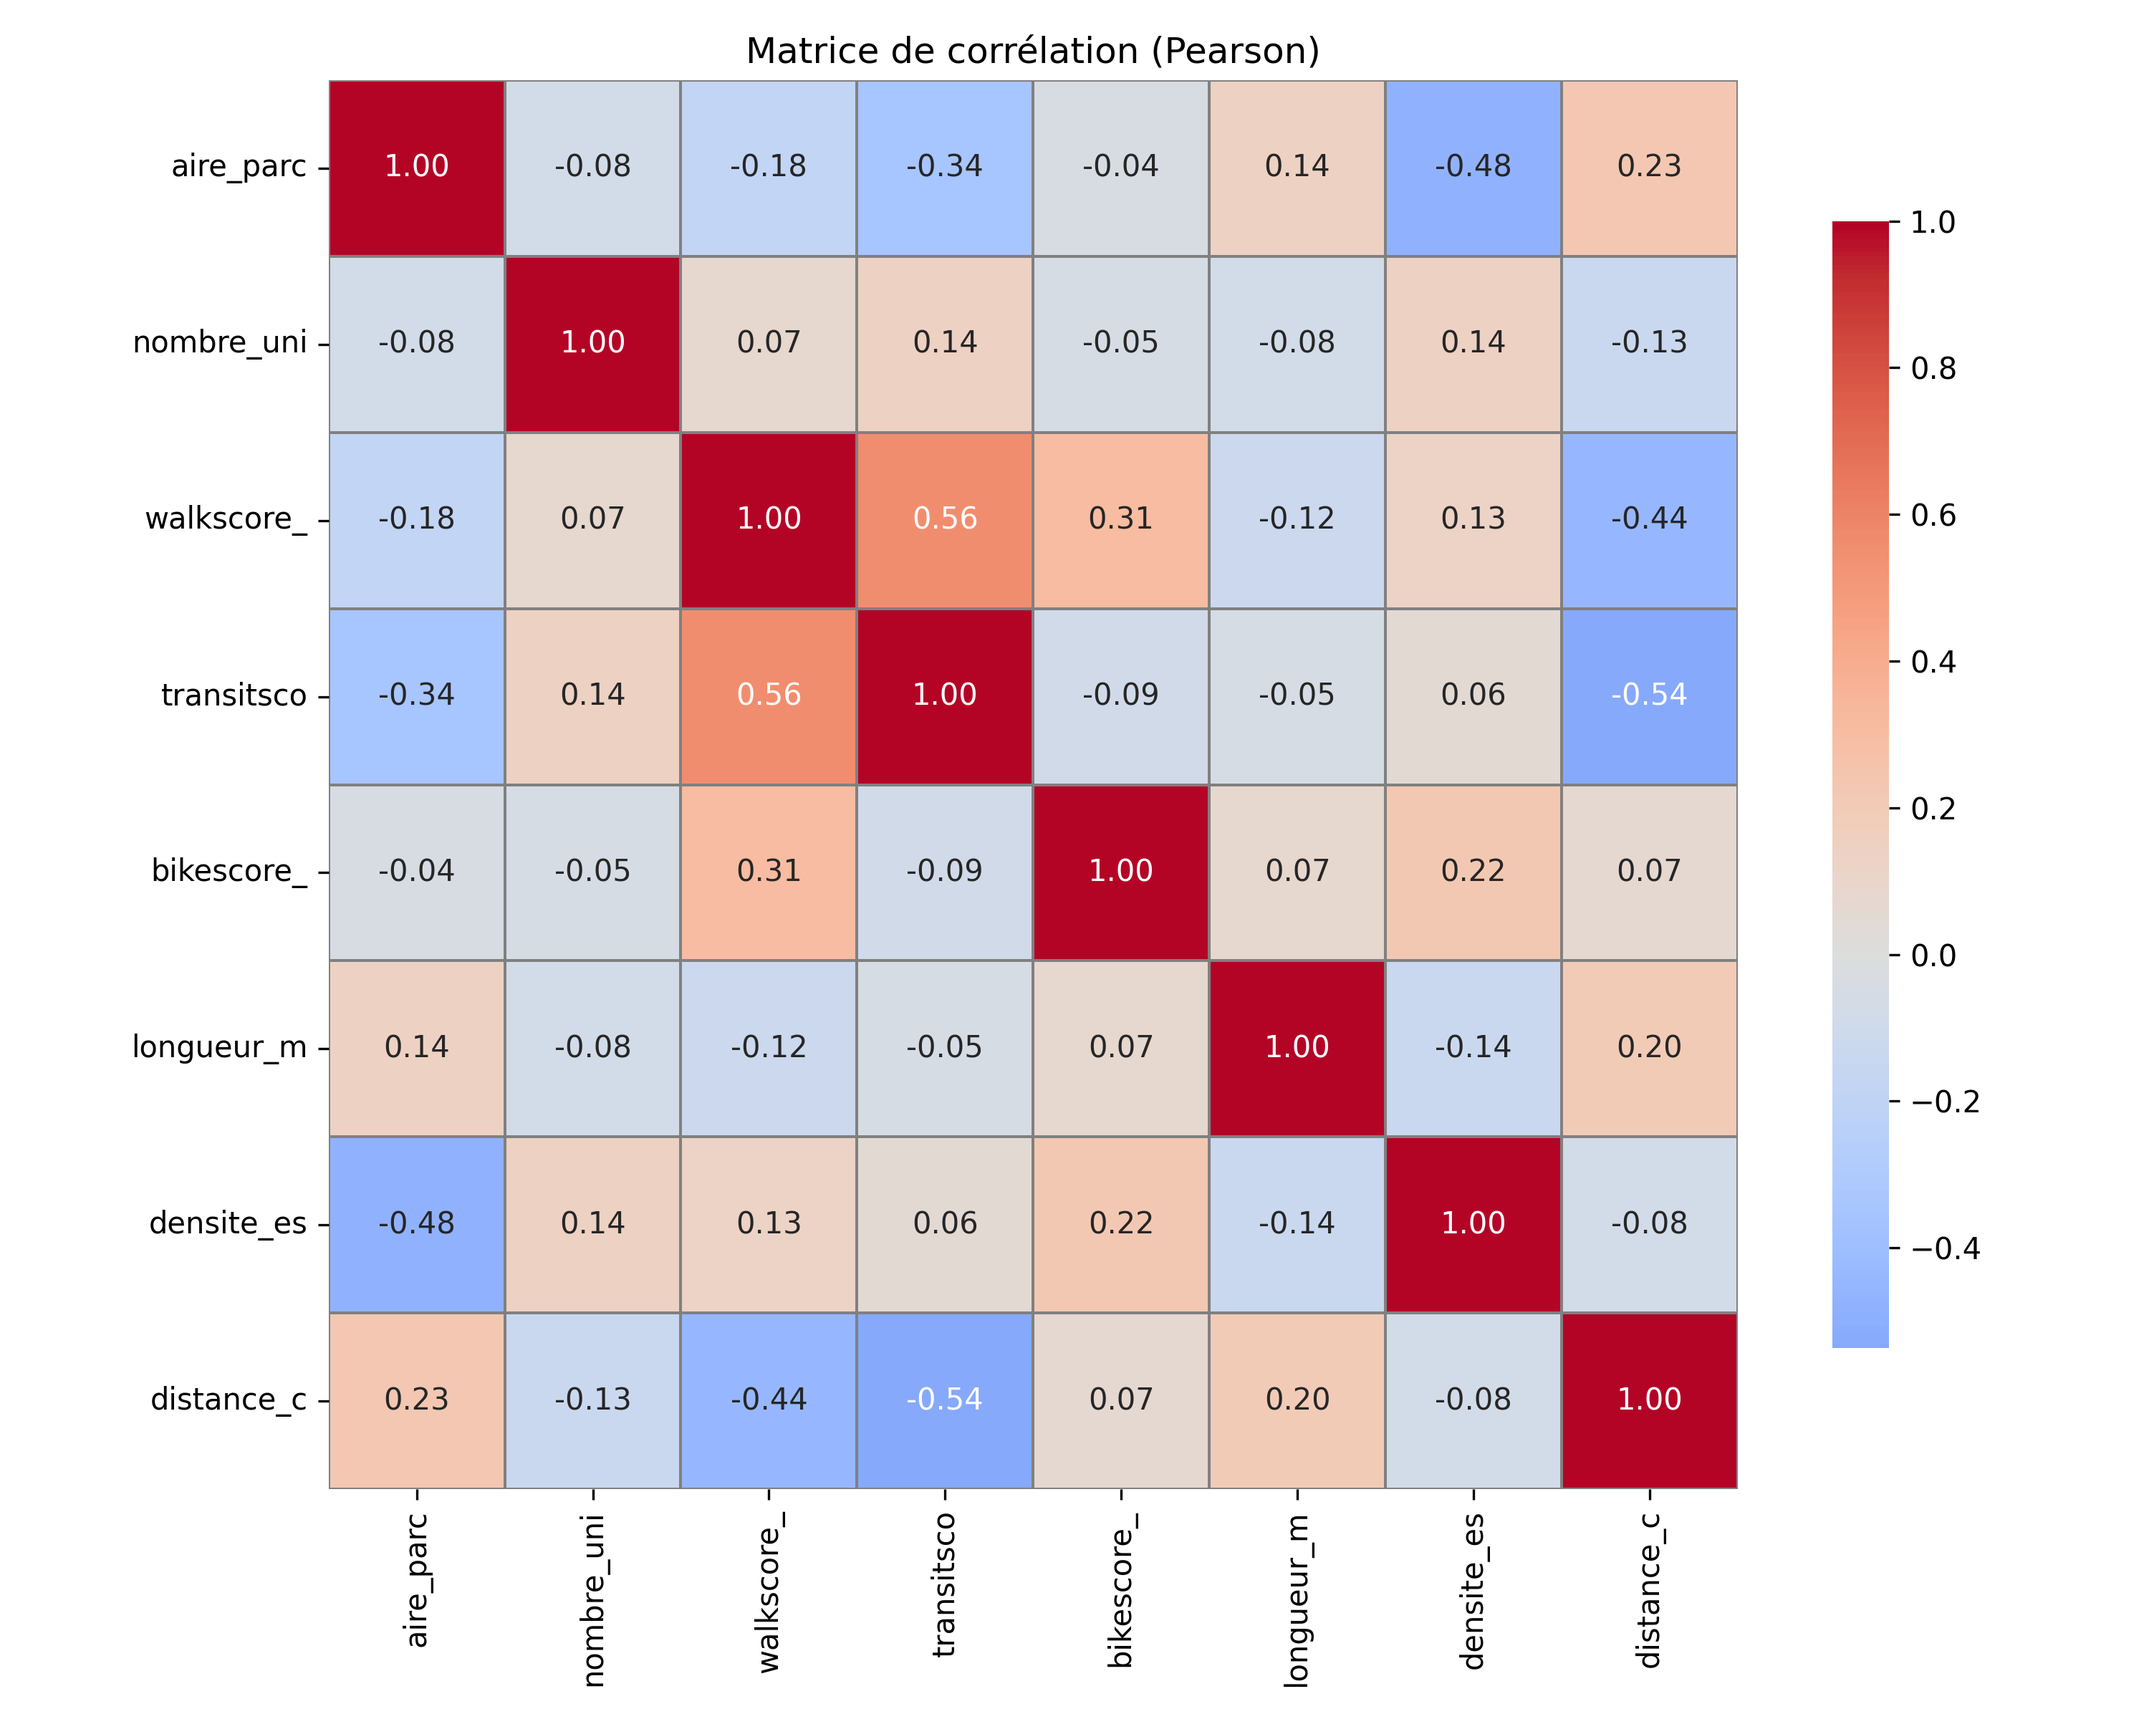
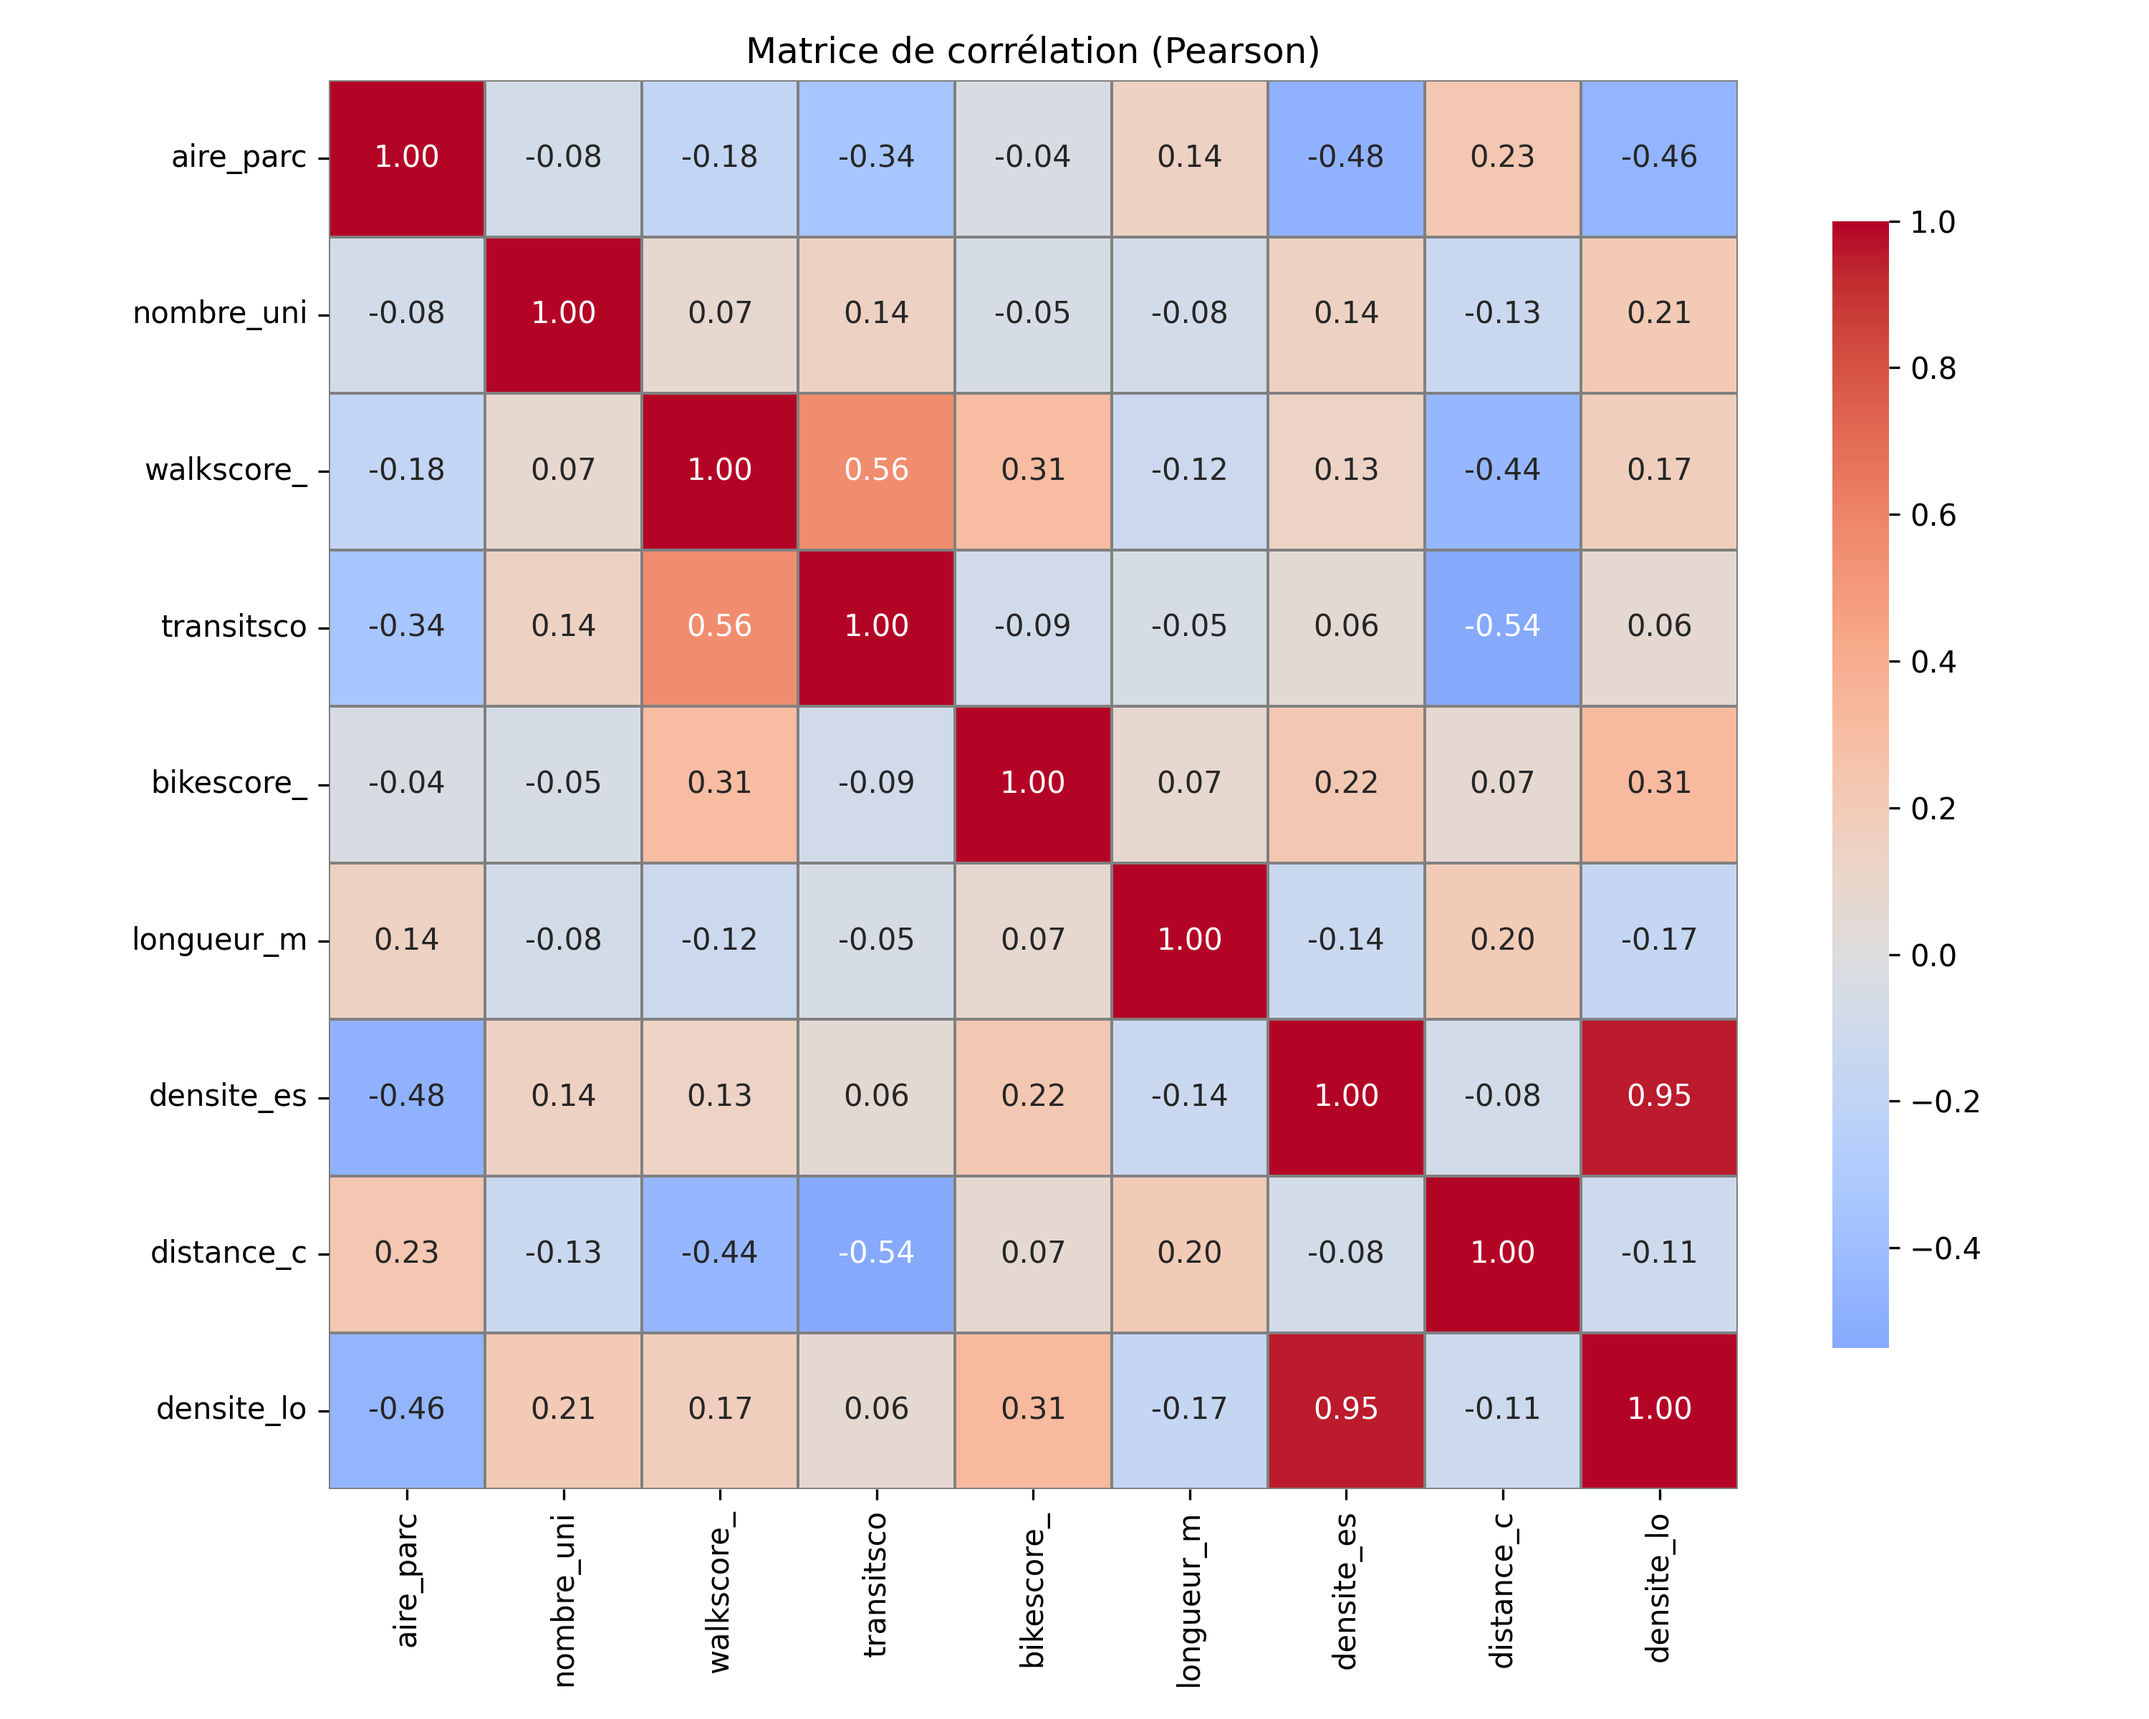
rayon 250m

diff --git a/scripts/visuals/generate_visuals.py b/scripts/visuals/generate_visuals.py
@@ -6,6 +6,7 @@ from scipy.stats import pearsonr
 import os
 import numpy as np
 from scipy.stats import spearmanr
+import mapclassify
 
 def analyser_relation(df, x_col, y_col, output_prefix, correlation_csv="output/correlations.csv"):
     data = df[[x_col, y_col]].copy()
@@ -44,6 +45,39 @@ def analyser_relation(df, x_col, y_col, output_prefix, correlation_csv="output/c
     plt.grid(True, linestyle="--", alpha=0.5)
     plt.tight_layout()
     plt.savefig(f"output/{output_prefix}_scatter.png", dpi=300)
+    plt.close()
+
+    # Classer avec Jenks
+    classifier = mapclassify.NaturalBreaks(data[x_col], k=5)
+    bins = [-float("inf")] + list(classifier.bins)  # inclure min
+    data["bin_jenks"] = pd.cut(data[x_col], bins=bins, include_lowest=True)
+
+    # Grouper : taille et moyenne
+    grouped = data.groupby("bin_jenks").agg(
+        n_obs=(x_col, "count"),
+        mean_trajets=(y_col, "mean")
+    ).reset_index()
+
+    # --- Graph ---
+    fig, ax1 = plt.subplots(figsize=(8, 5))
+
+    # Histogramme des obs
+    ax1.bar(grouped["bin_jenks"].astype(str), grouped["n_obs"], color="skyblue", alpha=0.7,
+            label="Nombre d'observations")
+    ax1.set_ylabel("Nombre d'observations", color="skyblue")
+    ax1.tick_params(axis="y", labelcolor="skyblue")
+    ax1.set_xlabel("Bin Jenks")
+
+    # Courbe pour le nb moyen de trajets
+    ax2 = ax1.twinx()
+    ax2.plot(grouped["bin_jenks"].astype(str), grouped["mean_trajets"], color="darkred", marker="o",
+             label="Nb trajets moyen")
+    ax2.set_ylabel("Nombre moyen de trajets", color="darkred")
+    ax2.tick_params(axis="y", labelcolor="darkred")
+
+    plt.title("Observations et trajets moyens par bin (Jenks)")
+    fig.tight_layout()
+    plt.savefig(f"output/{output_prefix}_jenks.png", dpi=300)
     plt.close()
 
     # Barplot par quantiles
@@ -131,17 +165,17 @@ def analyser_zonage(hexagones, output_path ):
 
 def main():
     # Chargement des données
-    season = "hiver_2425"
+    season = "ete_2024"
     if season == "ete_2024":
-        hexagones = gpd.read_file("../../data/processed/ete_2024/hexagones_ete_2024_popdens_bikepath_parcs_universites_zonage.shp")
+        hexagones = gpd.read_file("../../data/processed/ete_2024/hexagones250m_ete_2024_popdens_bikepath_parcs_universites_zonage_logement.shp")
     elif season == "hiver_2324":
-        hexagones = gpd.read_file("../../data/processed/hexagones_hiver_2023_2024_popdens_bikepath_parcs_universites_zonage.shp")
+        hexagones = gpd.read_file("../../data/processed/hiver_2324/hexagones250m_hiver_2023_2024_popdens_bikepath_parcs_universites_zonage_logement.shp")
     elif season == "hiver_2425":
-        hexagones = gpd.read_file("../../data/processed/hiver2425/hexagones_hiver_2024_2025_popdens_bikepath_parcs_universites_zonage.shp")
+        hexagones = gpd.read_file("../../data/processed/hiver2425/hexagones_hiver_2024_2025_popdens_bikepath_parcs_universites_zonage_logement.shp")
     print(hexagones.columns)
     import numpy as np
     hexagones["transitsco"] = hexagones["transitsco"].replace(-1, np.nan)
-
+    season = season + "/250m"
     # Lancer l'analyse sur différentes variables
     analyser_relation(hexagones, "aire_parc", "nb_trajets", f"{season}/parc_vs_trajets",
                       correlation_csv=f"output/{season}/correlations.csv")
@@ -167,11 +201,14 @@ def main():
     analyser_relation(hexagones, "distance_c", "nb_trajets", f"{season}/distance_centre-ville_vs_trajets",
                       correlation_csv=f"output/{season}/correlations.csv")
 
+    analyser_relation(hexagones, "densite_lo", "nb_trajets", f"{season}/densite_logements_vs_trajets",
+                      correlation_csv=f"output/{season}/correlations.csv")
+
     analyser_zonage(hexagones, output_path=f"output/{season}/zonage.png")
 
     colonnes_facteurs = [
         "aire_parc", "nombre_uni", "walkscore_", "transitsco",
-        "bikescore_", "longueur_m", "densite_es", "distance_c"
+        "bikescore_", "longueur_m", "densite_es", "distance_c", "densite_lo"
     ]
 
     generer_matrice_correlation(hexagones, colonnes_facteurs,

diff --git a/scripts/data/generate_housing_density_data.py b/scripts/data/generate_housing_density_data.py
@@ -1,0 +1,49 @@
+import geopandas as gpd
+import pandas as pd
+
+def calculer_densite_logement_par_hexagone(
+    hex_path,
+    ad_path,
+    output_path,
+    colonne_population='COL2',
+    crs_proj='EPSG:32188'
+):
+    # 1. Charger les données
+    gdf_hex = gpd.read_file(hex_path)
+    gdf_ad = gpd.read_file(ad_path)
+
+    # 2. Reprojection
+    gdf_hex = gdf_hex.to_crs(crs_proj)
+    gdf_ad = gdf_ad.to_crs(crs_proj)
+
+    # 3. Préparer les données
+    gdf_ad['nb_logements'] = gdf_ad[colonne_population]
+    gdf_hex["hex_id"] = gdf_hex.index.astype(str)
+
+    # 4. Aire des aires de diffusion
+    gdf_ad["aire_ad"] = gdf_ad.geometry.area
+
+    # 5. Intersection hexagones x aires
+    inter = gpd.overlay(gdf_hex, gdf_ad, how="intersection")
+
+    # 6. Aire des intersections
+    inter["aire_inter"] = inter.geometry.area
+
+    # 7. Population transférée à chaque intersection
+    inter["nb_logements_inter"] = inter["nb_logements"] * (inter["aire_inter"] / inter["aire_ad"])
+
+    # 8. Agrégation par hexagone
+    pop_par_hex = inter.groupby("hex_id").agg({"nb_logements_inter": "sum"}).reset_index()
+
+    # 9. Fusion avec les hexagones
+    gdf_hex = gdf_hex.merge(pop_par_hex, on="hex_id", how="left")
+    gdf_hex["nb_logements_inter"] = gdf_hex["nb_logements_inter"].fillna(0)
+
+    # 10. Densité (log/hectare)
+    gdf_hex["aire_hex"] = gdf_hex.geometry.area
+    gdf_hex["densite_log"] = gdf_hex["nb_logements_inter"] / gdf_hex["aire_hex"] * 1e4
+
+    # 11. Export
+    gdf_hex.to_file(output_path)
+
+    return gdf_hex

diff --git a/scripts/data/data_pipeline.py b/scripts/data/data_pipeline.py
@@ -8,9 +8,10 @@ from generate_park_density_data import ajouter_surface_parcs_par_hexagone
 from add_university_data import ajouter_nombre_universites_par_hexagone
 from compute_distance_to_downtown import compute_distance_to_downtown
 from add_zoning_data import lister_affectations_par_hexagone
+from generate_housing_density_data import calculer_densite_logement_par_hexagone
 import yaml
 
-def load_config(path="config_hiver_2024_2025.yml"):
+def load_config(path="config_ete_2024.yml"):
     with open(path, "r") as f:
         return yaml.safe_load(f)
 
@@ -91,6 +92,13 @@ def main():
             hex_path=paths["hex_universites"],
             affectation_path=paths["affectation"],
             output_path=paths["hex_zonage"]
+        )
+
+    if steps["densite_logement"]:
+        calculer_densite_logement_par_hexagone(
+            hex_path=paths["hex_zonage"],
+            ad_path=paths["aire_diffusion_logements"],
+            output_path=paths["hex_logement"],
         )
 
 

diff --git a/scripts/data/compter_trajets_par_hex.py b/scripts/data/compter_trajets_par_hex.py
@@ -7,7 +7,7 @@ def compter_trajets_par_hexagone(
         path_hexagones,
         path_stations,
         output_path,
-        epsg_metrique=3857
+        epsg_metrique=32188
 ):
     """
     Associe les stations aux hexagones, compte les trajets, et exporte un fichier GeoSpatial.
@@ -16,7 +16,7 @@ def compter_trajets_par_hexagone(
     - path_hexagones : chemin vers le fichier shapefile des hexagones
     - path_stations  : chemin vers le CSV contenant les stations avec colonnes 'lon', 'lat', 'nb_total'
     - output_path    : chemin de sortie (sans extension pour shapefile, avec pour geojson)
-    - epsg_metrique  : système de projection pour l'intersection spatiale (par défaut: EPSG:3857)
+    - epsg_metrique  : système de projection pour l'intersection spatiale
     - export_format  : "shp" ou "geojson"
     """
 

diff --git a/scripts/data/check_hex_lenght.py b/scripts/data/check_hex_lenght.py
@@ -1,0 +1,26 @@
+import geopandas as gpd
+import math
+
+# --- Paramètres ---
+shp_path = "../../data/hexagone/tessellation3.shp"
+epsg_metrique = 32188  # Montréal - MTM zone 8
+#32188 -> 94,90 m
+#3857 -> 135,13 m
+
+# --- Chargement ---
+gdf = gpd.read_file(shp_path)
+
+# --- Projection en système métrique ---
+gdf = gdf.to_crs(epsg=epsg_metrique)
+
+# --- Prendre le premier hexagone ---
+hexagon = gdf.geometry.iloc[0]
+
+# --- Calcul de l'aire ---
+area = hexagon.area  # en m²
+
+# --- Calcul du rayon (centre -> sommet) ---
+radius = math.sqrt((2 * area) / (3 * math.sqrt(3)))
+
+print(f"Aire : {area:.2f} m²")
+print(f"Rayon (centre -> sommet) : {radius:.2f} m")
